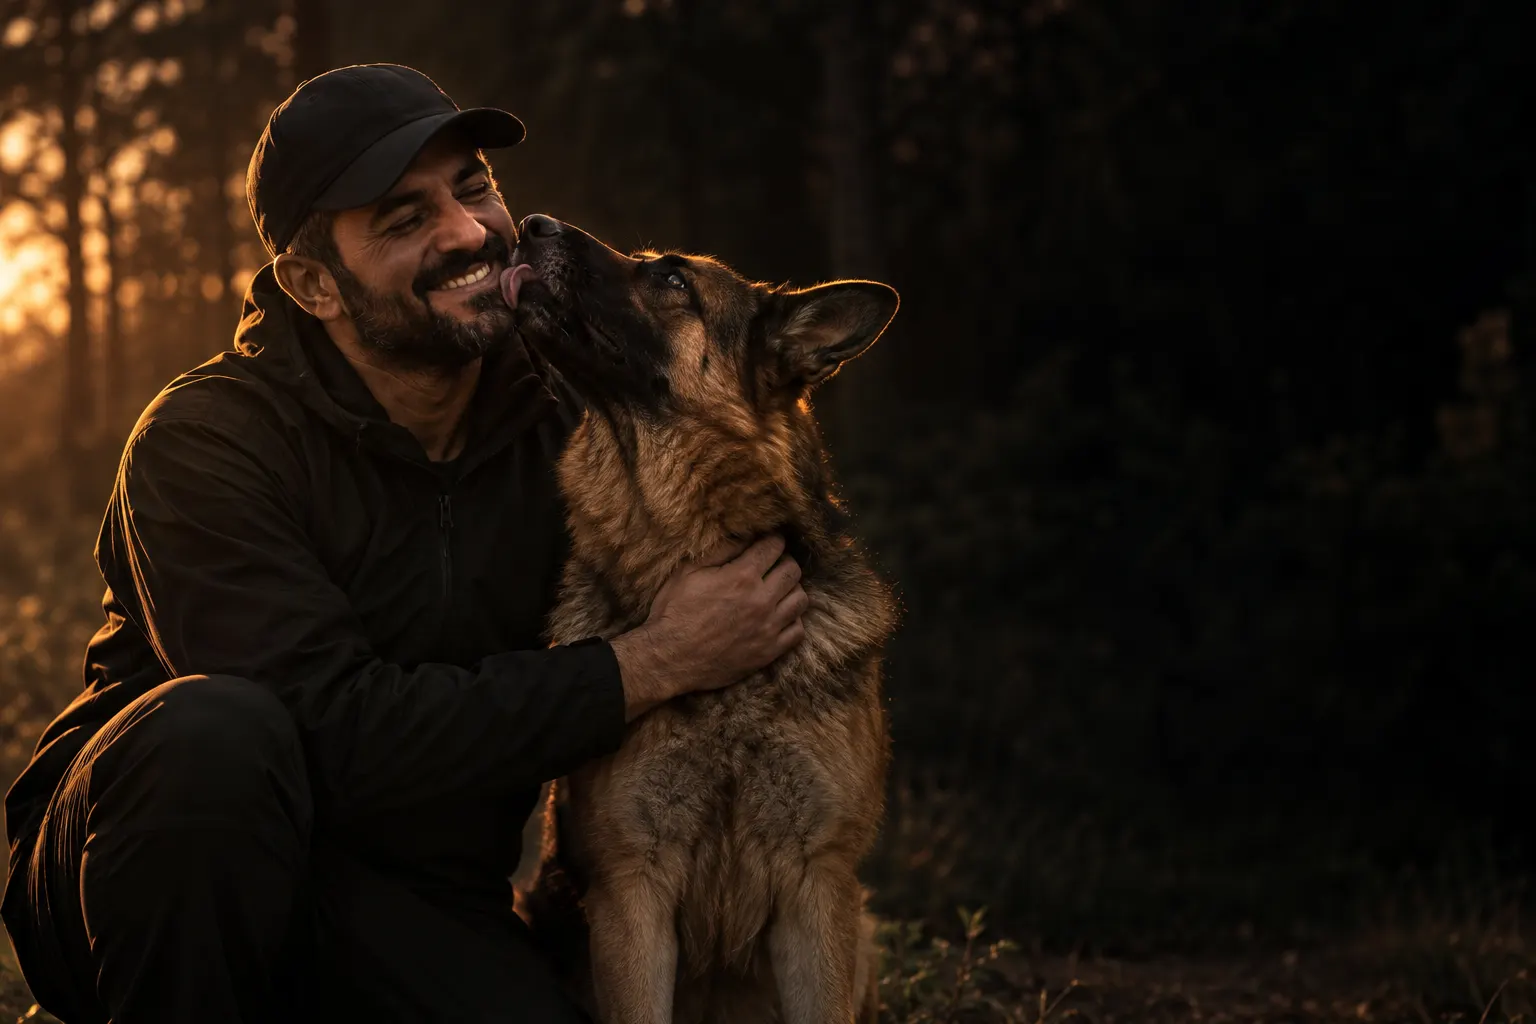
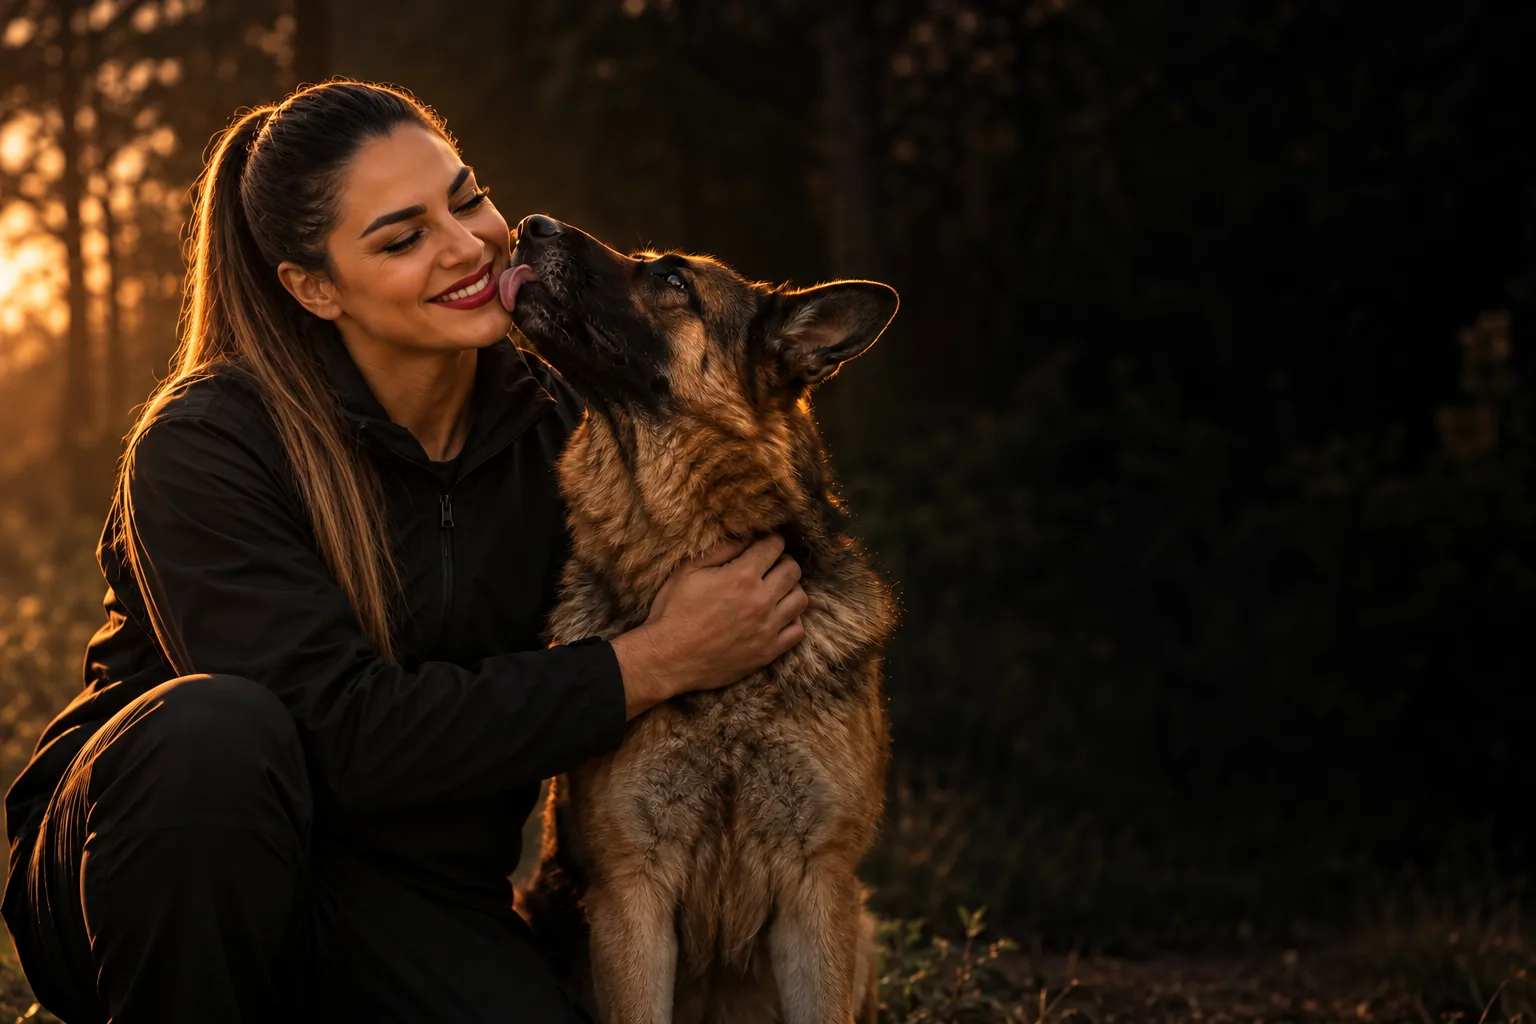
Replace home trainer photo with Tala

diff --git a/app/routes/home/components/trainer-section.tsx b/app/routes/home/components/trainer-section.tsx
@@ -11,8 +11,8 @@ import { SpeechBubble } from "~/components/speech-bubble";
 
 /*===== Trainer Section =====*/
 /**
- * The head trainer and founder, introduced by his dog, before the whole team (`TeamSection`). The one wide photo band
- * below the hero: him laughing while a German shepherd licks his cheek, with the dog's line over the photo's dark end.
+ * The head trainer and founder, introduced by her dog, before the whole team (`TeamSection`). The one wide photo band
+ * below the hero: Tala laughing while a German shepherd licks her cheek, with the dog's line over the photo's dark end.
  * Credentials come from the owner's business card; the photo remains illustrative.
  */
 export function TrainerSection() {
